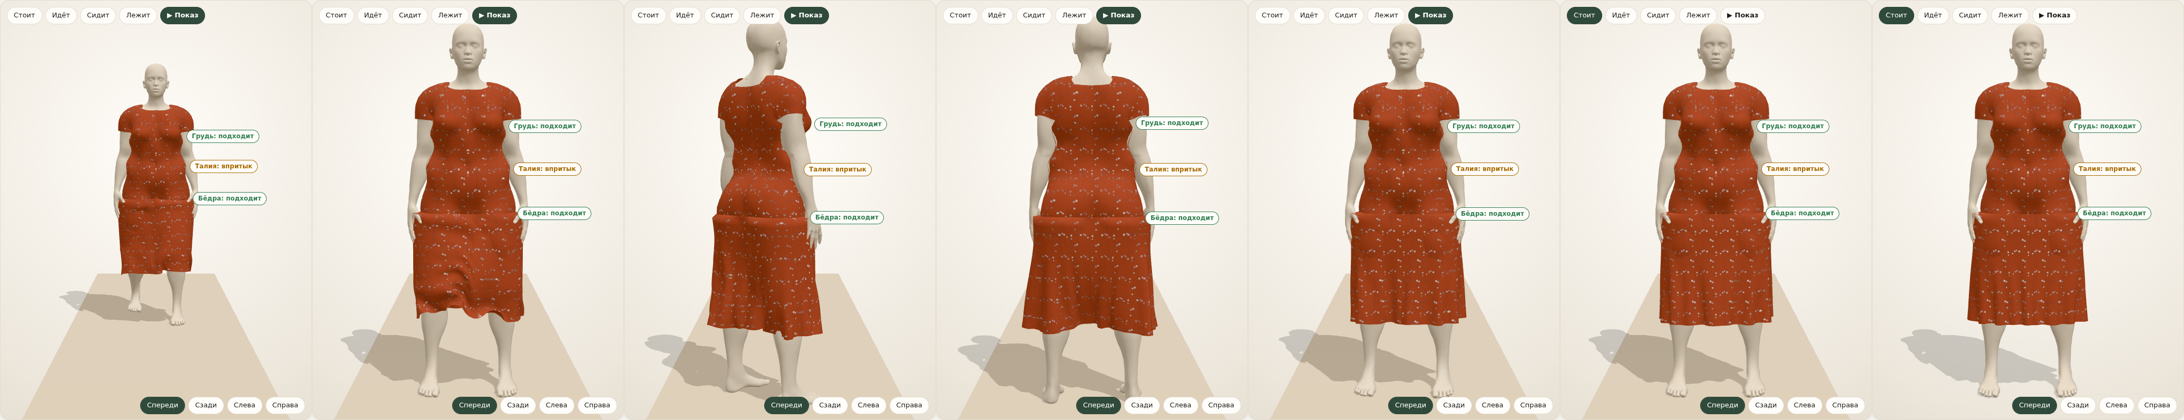
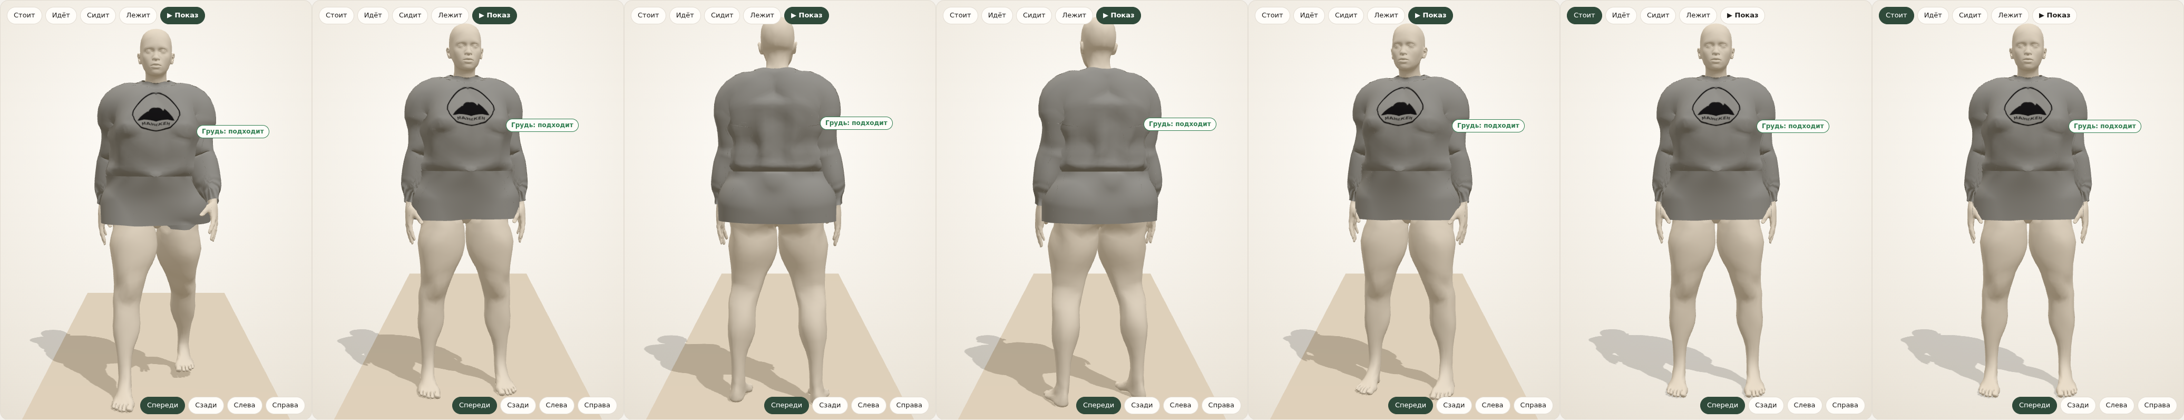
Показ: камера следует за моделью по подиуму
Цель камеры и сама камера сдвигаются вдоль подиума вместе с моделью;
выбранный человеком ракурс сохраняется, после показа камера возвращается.

Claude-Session: https://claude.ai/code/session_0197iLwfk62uJsxPWETT97WQ

diff --git a/src/stage.ts b/src/stage.ts
@@ -333,6 +333,16 @@ export class Stage {
     this.mat.visible = this.pose === 'lie';
     this.runway.visible = this.pose === 'show';
 
+    // Камера следует за моделью по подиуму: цель и камера сдвигаются вместе с ней,
+    // ракурс, который выбрал человек (вращение, приближение), сохраняется.
+    const follow = show ? show.z : 0;
+    const dz = follow - this.followZ;
+    if (dz !== 0) {
+      this.controls.target.z += dz;
+      this.camera.position.z += dz;
+      this.followZ = follow;
+    }
+
     if (show) {
       g.rotation.set(0, show.yaw, 0);
       g.position.set(0, (drop - minY) * s, show.z);
@@ -394,7 +404,7 @@ export class Stage {
   private frameBox(height: number, centerY: number, width: number, fromAbove = false): void {
     const tan = Math.tan(THREE.MathUtils.degToRad(this.camera.fov / 2));
     const dist = Math.max((height * 1.12) / (2 * tan), (width * 1.05) / (2 * tan * this.camera.aspect));
-    const target = new THREE.Vector3(0, centerY, 0);
+    const target = new THREE.Vector3(0, centerY, this.followZ);
     const az = this.camera.position.lengthSq() > 0 ? this.controls.getAzimuthalAngle() : 0;
     const polar = fromAbove ? Math.PI * 0.3 : Math.PI * 0.48;
     const offset = new THREE.Vector3().setFromSphericalCoords(dist, polar, az);
@@ -443,6 +453,8 @@ export class Stage {
   }
 
   private showDone = false;
+  /** Насколько камера сдвинута за моделью вдоль подиума. */
+  private followZ = 0;
 
   private frame(): void {
     this.timer.update();

diff --git a/PLAN.md b/PLAN.md
@@ -111,4 +111,5 @@ Vite + TypeScript + Three.js, статический сайт, без серве
 ## Итоги: показ как на подиуме (04.10.2026)
 - Кнопка «▶ Показ»: манекен идёт по дорожке из глубины сцены к зрителю (~3 с), останавливается, плавно поворачивается спиной, держит паузу, доворачивается лицом и остаётся стоять. Ткань (юбки, хвосты, низ худи) двигается в шаге и при повороте. Камера сама встаёт спереди.
 - Исправлено попутно: `THREE.Timer.reset()` не обнуляет прошедшее время — ходьба и показ начинались не с начала. Время позы теперь считается от момента выбора.
+- Камера следует за моделью по подиуму: модель всё время крупно в кадре, ракурс, выбранный человеком (вращение, приближение), сохраняется.
 - Скриншоты: `docs/screenshots/step12-runway-show.png` (кадры по времени).
